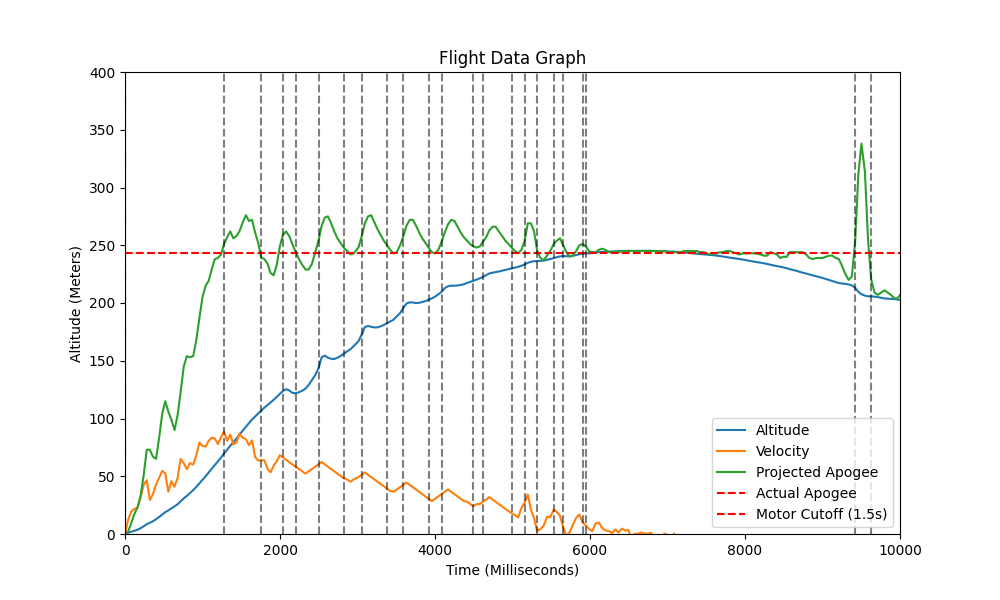
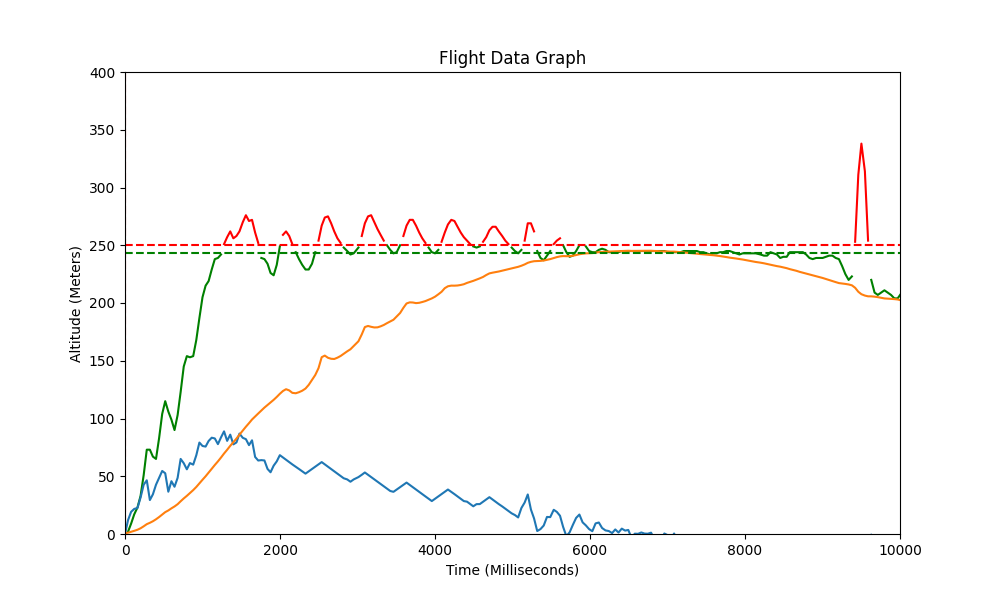
tuned and tested various software correction ideas

diff --git a/Airbrake_Files/Python_Data_Analysis/adaptive-code-tester.py b/Airbrake_Files/Python_Data_Analysis/adaptive-code-tester.py
@@ -1,13 +1,12 @@
-# NOTE: make sure data is in .csv format with time in seconds and altitude in meters
-
 import numpy as np
 import pandas as pd
 import matplotlib.pyplot as plt
 
-mass = 0.580 # kg (update for each flight)
-actual_apogee = 298 # meters (341 for test 2, 293 for test 3, 293 for test 4, 298 for test 5)
+mass = 0.598  # kg (update for each flight)
+actual_apogee = 239  # meters 
+target_apogee = 250 
 
-k = 0.0016
+k = 0.002
 g = 9.8
 
 slice_length = 5
@@ -15,43 +14,58 @@ slice_length = 5
 def mean_projected_apogee(row, df, slice):
     # Determine the start index for the last twenty values before the current row
     start_index = max(0, row.name - slice)
-    # Get the last twenty (or fewer) projections up to the current index
+    # Get the last five (or fewer) projections up to the current index
     sliced_projections = df.loc[start_index:row.name - 1, 'Raw Projected Apogee']
     # Calculate and return the mean of these values
     return sliced_projections.mean()
 
+def apply_constraints(df):
+    for i in range(1, len(df)):
+        if 2000 <= df.loc[i, 'Time'] <= 6000:
+            # Ensure velocity only decreases by 1 m/s or stays the same
+            prev_velocity = df.loc[i - 1, 'Velocity']
+            current_velocity = df.loc[i, 'Velocity']
+            if current_velocity > prev_velocity:
+                df.loc[i, 'Velocity'] = prev_velocity
+            else:
+                df.loc[i, 'Velocity'] = max(prev_velocity - 1, current_velocity)
+            
+            prev_altitude = df.loc[i - 1, 'Altitude']
+            current_altitude = df.loc[i, 'Altitude']
+            if current_altitude < prev_altitude:
+                df.loc[i, 'Altitude'] = prev_altitude
+    return df
+
 def main():
-    filename = 'C:/Users/gavin/Documents/test5.csv'
-    graph_filename = 'C:/Users/gavin/Documents/test-5-adaptive.png'
+    filename = '/home/gavin/Documents/GitHub/airbrake_files/Airbrake_Files/Flight_Data/Clean_Data/test16.csv'
+    graph_filename = '/home/gavin/Documents/GitHub/airbrake_files/Airbrake_Files/Flight_Data/Graphs/theoretical_test16.png'
 
-    df = pd.read_csv(filename, names=['Time', 'Altitude'])
+    df = pd.read_csv(filename, usecols=[0, 1], names=['Time', 'Altitude'])
 
-    df['Velocity'] = (df['Altitude'].diff() / df['Time'].diff())
-    df['Altitude'] = df['Altitude']
+    df['Velocity'] = (df['Altitude'].diff() / df['Time'].diff()) * 1000
+
+    # Apply velocity constraints
+    df = apply_constraints(df)
 
     # Calculate projected apogee and error
-
-    # df['Projected Apogee'] = df['Altitude'] + df['Velocity'] * df['Remaining Time'] * 1/2
     df['Raw Projected Apogee'] = df['Altitude'] + (mass / (2 * k)) * np.log((k * (df['Velocity'] ** 2)) / (mass * g) + 1)
     df['Projected Apogee'] = df.apply(mean_projected_apogee, axis=1, df=df, slice=slice_length)
 
-    df.loc[df['Time'] <= 1.5, 'Projected Apogee'] = np.nan
-
-    df['Error'] = abs(actual_apogee - df['Projected Apogee'])
+    df.loc[df['Time'] <= 1500, 'Projected Apogee'] = np.nan
 
     # Plotting the results
     plt.figure(figsize=(10, 6))
+    plt.axhline(y=actual_apogee, color='g', linestyle='--', label='Actual Apogee')
+    plt.axhline(y=target_apogee, color='r', linestyle='--', label='Target Apogee')
     plt.plot(df['Time'], df['Altitude'], label='Altitude')
     plt.plot(df['Time'], df['Projected Apogee'], label='Projected Apogee')
     plt.plot(df['Time'], df['Velocity'], label='Velocity')
-    plt.axhline(y=actual_apogee, color='r', linestyle='-', label='Actual Apogee')
-    plt.plot(df['Time'], df['Error'], label='Error', color='green')
     plt.ylim(0, 400)
-    plt.xlim(0, 10)
+    plt.xlim(0, 10000)
 
     plt.xlabel('Time (Seconds)')
     plt.ylabel('Altitude (Meters)')
-    plt.title('Time vs Altitude with Projected Apogee and Error')
+    plt.title('Time vs Altitude with Projected Apogee')
     plt.legend()
 
     # Save the plot to a file

diff --git a/Airbrake_Files/Python_Data_Analysis/data-grapher.py b/Airbrake_Files/Python_Data_Analysis/data-grapher.py
@@ -5,29 +5,48 @@ import matplotlib.pyplot as plt
 PNUT = 0
 SD = 1
 
-actual_apogee = 239  # replace with actual apogee of flight in m
+actual_apogee = 215.8  # replace with actual apogee of flight in m
+target_apogee = 250
 
 datatype = SD
-filename = '/home/gavin/Documents/GitHub/airbrake_files/Airbrake_Files/Flight_Data/Clean_Data/test16.csv'
-graph_filename = '/home/gavin/Documents/GitHub/airbrake_files/Airbrake_Files/Flight_Data/Graphs/test16.png'
+filename = '/home/gavin/Documents/GitHub/airbrake_files/Airbrake_Files/Flight_Data/Clean_Data/test12.csv'
+graph_filename = '/home/gavin/Documents/GitHub/airbrake_files/Airbrake_Files/Flight_Data/Graphs/test12.png'
 
-if (datatype == SD):
+if datatype == SD:
     df = pd.read_csv(filename, names=['Time', 'Altitude', 'Velocity', 'isDeployed', 'isBurning', 'Projected Apogee'])
     df.loc[df['Time'] <= 1.5, 'Projected Apogee'] = np.nan
     df['Error'] = abs(actual_apogee - df['Projected Apogee'])
 
     plt.figure(figsize=(10, 6))
-    plt.plot(df['Time'], df['Altitude'], label='Altitude')
+    # Initialize lists to store x and y coordinates of segments
+    x_segments = []
+    y_segments = []
+    current_color = 'green'  # Initial color
+    for index, row in df.iterrows():
+        x_segments.append(row['Time'])
+        y_segments.append(row['Projected Apogee'])
+        if index < len(df) - 1 and row['isDeployed'] != df.loc[index + 1, 'isDeployed']:
+            plt.plot(x_segments, y_segments, color=current_color, label='')
+            x_segments = []
+            y_segments = []
+            current_color = 'green' if row['isDeployed'] else 'red'
+
+    # Plot the last segment
+    if x_segments:
+        plt.plot(x_segments, y_segments, color=current_color, label='Projected Apogee' if current_color == 'green' else '')
+
+    # Plot other data
     plt.plot(df['Time'], df['Velocity'], label='Velocity')
-    plt.plot(df['Time'], df['Projected Apogee'], label='Projected Apogee')
-    plt.axhline(y=actual_apogee, color='r', linestyle='--', label='Actual Apogee')
+    plt.plot(df['Time'], df['Altitude'], label='Altitude')
+    plt.axhline(y=actual_apogee, color='g', linestyle='--', label='Actual Apogee')
+    plt.axhline(y=target_apogee, color='r', linestyle='--', label='Target Apogee')
     plt.axvline(x=1.5, color='r', linestyle='--', label='Motor Cutoff (1.5s)')
 
-    deploy_changes = df[df['isDeployed'].diff() != 0]
-    for time in deploy_changes['Time']:
-        plt.axvline(x=time, color='k', linestyle='--', alpha=0.5)
+    # deploy_changes = df[df['isDeployed'].diff() != 0]
+    # for time in deploy_changes['Time']:
+    #     plt.axvline(x=time, color='k', linestyle='--', alpha=0.5)
 
-elif (datatype == PNUT):
+elif datatype == PNUT:
     df = pd.read_csv(filename, names=['Time', 'Altitude', 'Velocity', 'Temperature', 'Voltage'])
     plt.figure(figsize=(10, 6))
     plt.plot(df['Time'], df['Altitude'], label='Altitude')
@@ -40,7 +59,7 @@ plt.xlim(0, 10000)
 plt.xlabel('Time (Milliseconds)')
 plt.ylabel('Altitude (Meters)')
 plt.title('Flight Data Graph')
-plt.legend()
+# plt.legend()
 
 # Save the plot to a file
 plt.savefig(graph_filename)
